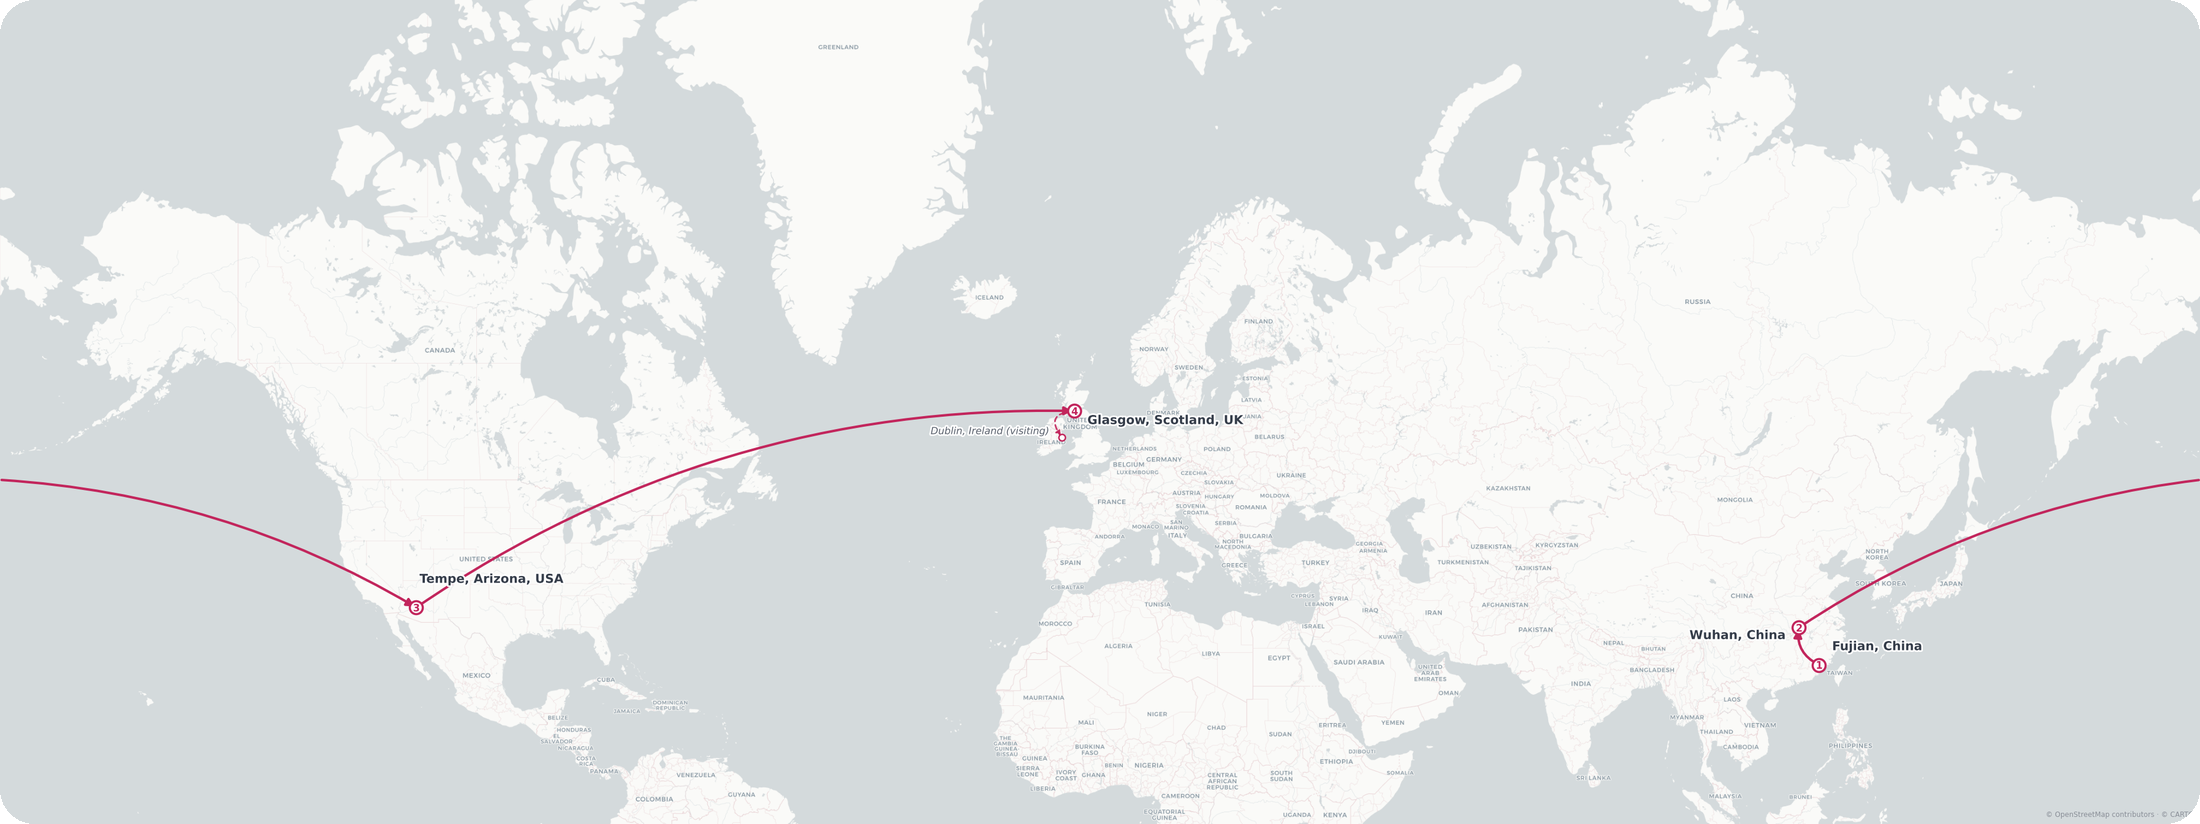
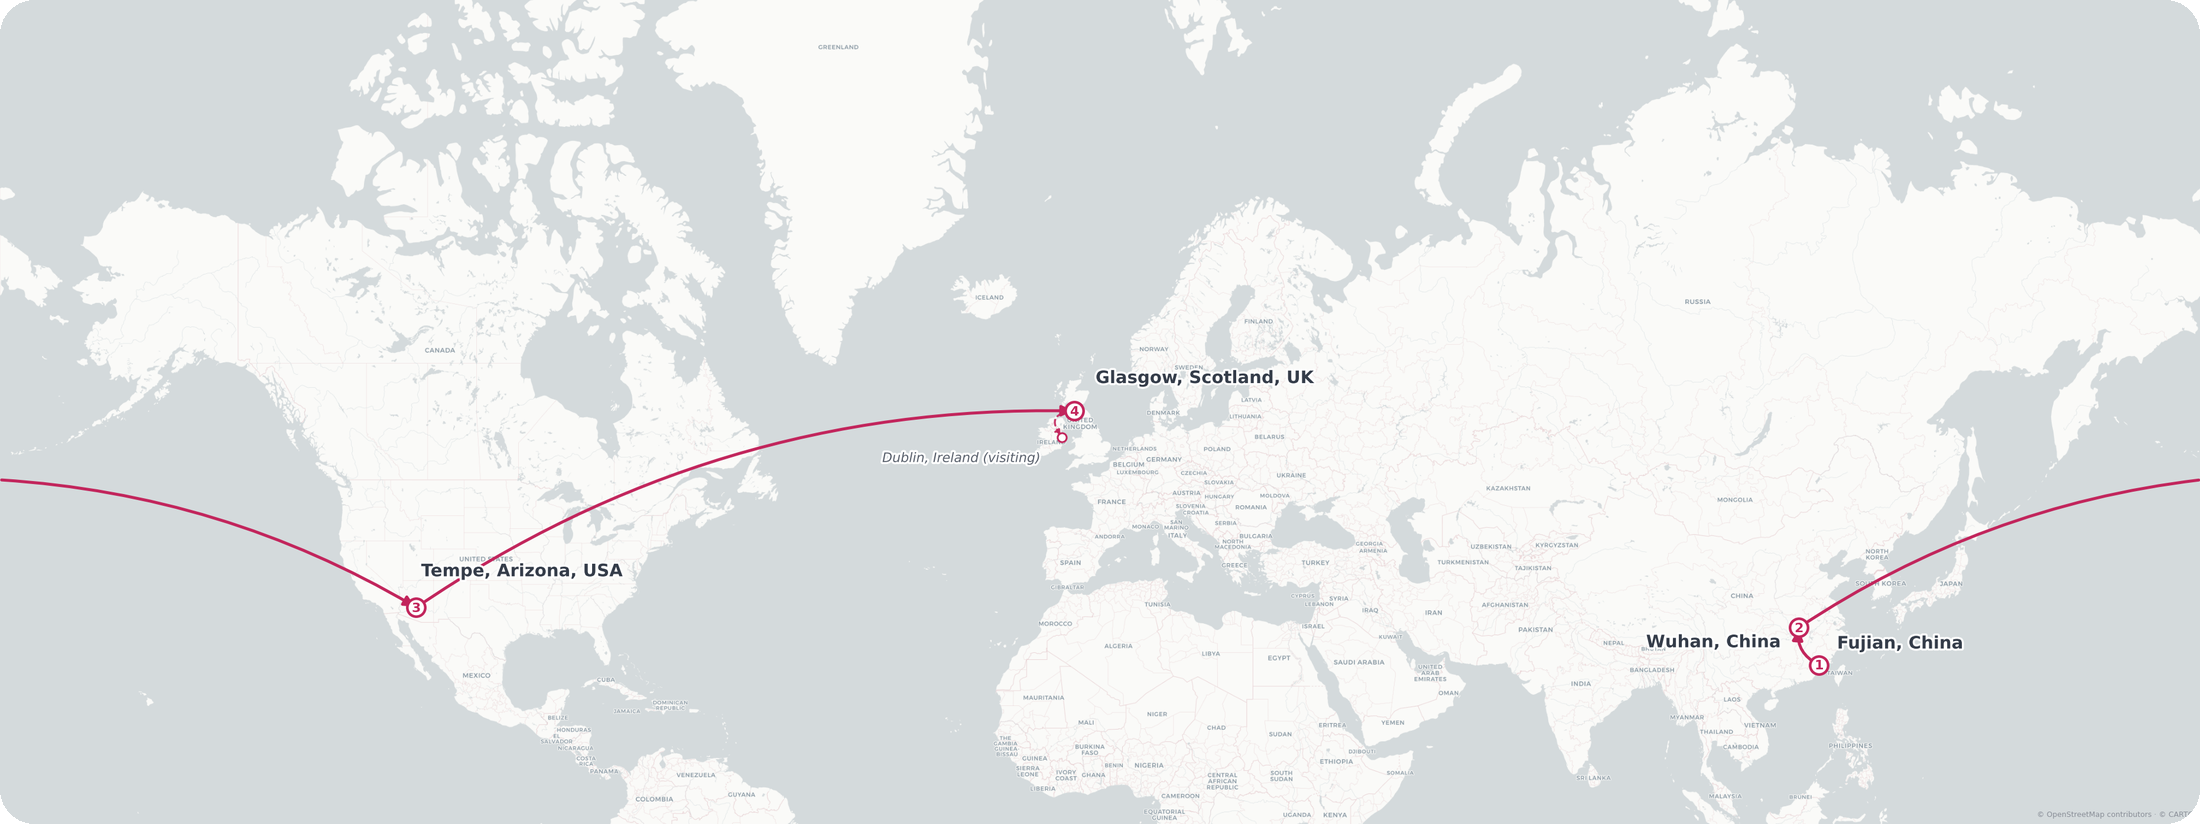
map v4: larger labels/markers, separated Glasgow/Dublin labels; highlight climate keywords in bio

Changed region(s): [[0.4018, 0.4248, 0.5873, 0.5765], [0.7418, 0.7282, 0.8964, 0.8192], [0.1855, 0.6675, 0.2782, 0.7585]]

diff --git a/_pages/about.md b/_pages/about.md
@@ -38,7 +38,7 @@ latest_posts:
 
 I am a **Professor in Urban Analytics** in the Division of Urban Studies & Social Policy, School of Social and Political Sciences, and **Deputy Director of the [Urban Big Data Centre (UBDC)](https://www.ubdc.ac.uk/)** at the University of Glasgow, where I lead the Urban Sensing & Analytics research theme. I am also a **Visiting Professor** in the School of Geography at University College Dublin, Ireland.
 
-My research focuses on creating a sustainable urban future — tackling social, economic, and environmental problems in cities with **new forms of urban big data** and analytical approaches spanning GIScience (GIS, remote sensing, spatial analysis), machine learning/deep learning and foundation models, operations research, sensor networks, and urban climate modelling and instrumentation. Ongoing work includes urban infrastructure location optimisation, human–environment interactions and mobility, housing energy efficiency and fuel poverty, indoor and outdoor urban heat, informal settlement mapping, 3D city modelling, and open-source spatial optimisation ([PySAL/spopt](https://github.com/pysal/spopt)).
+My research focuses on creating a sustainable urban future — tackling social, economic, and environmental problems in cities with **new forms of urban big data** and analytical approaches spanning GIScience (GIS, remote sensing, spatial analysis), machine learning/deep learning and foundation models, operations research, sensor networks, and **urban climate modelling and instrumentation**. Ongoing work includes urban infrastructure location optimisation, human–environment interactions and mobility, housing energy efficiency and fuel poverty, **indoor and outdoor urban heat**, informal settlement mapping, 3D city modelling, and open-source spatial optimisation ([PySAL/spopt](https://github.com/pysal/spopt)).
 
 I joined Glasgow in May 2019 as a Lecturer, and was promoted to Senior Lecturer in 2022 and Professor in 2024. I hold a PhD and MA in Geography/GIScience from Arizona State University and a BE in Remote Sensing, Photogrammetry and GIS from Wuhan University. Before Glasgow I was a postdoctoral research associate at ASU's [Knowledge Exchange for Resilience (KER)](https://resilience.asu.edu/) and [Spatial Analysis Research Center (SPARC)](https://sgsup.asu.edu/SPARC). My dissertation received the AAG [J. Warren Nystrom Award](https://www.aag.org/award-grant/nystrom/) (2018).
 